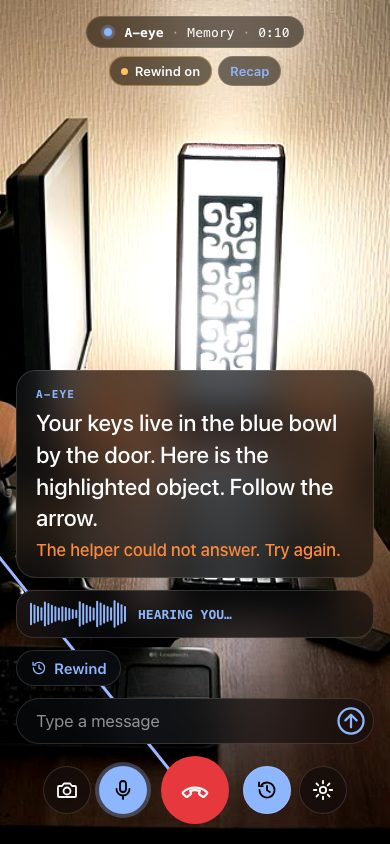
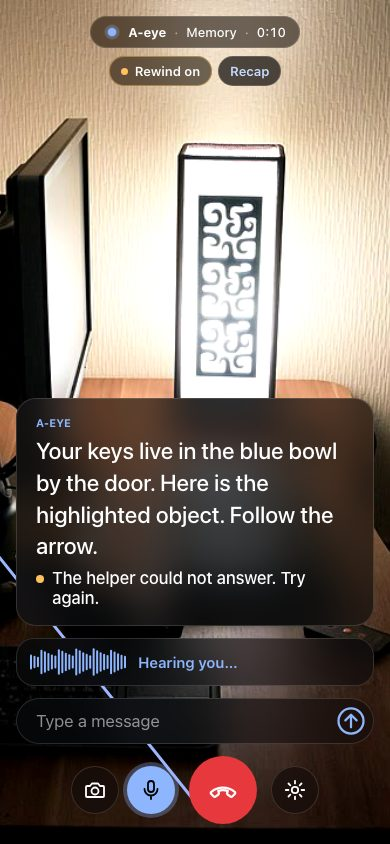
UI polish: review fixes (true privacy copy, calm camera-off, one filled button in Memory, reading font, phone split, Recap contrast)

diff --git a/client-web/agent.css b/client-web/agent.css
@@ -1847,3 +1847,90 @@ input[type="checkbox"][role="switch"]:disabled {
 .call .caption {
   background-color: rgba(8, 10, 14, 0.66);
 }
+
+/* ---------- Review d64c237 fixes ---------- */
+
+/* Problems read as information, not alarms: white text with a small amber dot. */
+.caption-error {
+  display: flex;
+  gap: 8px;
+  align-items: baseline;
+  color: var(--text);
+}
+
+.caption-error::before {
+  content: "";
+  flex: 0 0 auto;
+  width: 8px;
+  height: 8px;
+  border-radius: 50%;
+  background: var(--amber);
+  transform: translateY(-1px);
+}
+
+/* Memory mode: one filled button at most (the mic). Rewind lives in its badge and Settings; the starter chip goes. */
+body[data-mode="memory"] #rewind-btn,
+body[data-mode="memory"] .rewind-ask {
+  display: none;
+}
+
+/* Memory mode type: no monospace in what the person reads; sentence case in the listening strip. */
+body[data-mode="memory"] .pill,
+body[data-mode="memory"] .eyebrow,
+body[data-mode="memory"] .listen-text.mono {
+  font-family: var(--font);
+  letter-spacing: 0;
+}
+
+body[data-mode="memory"] .listen-text.mono {
+  font-size: var(--fs-subhead);
+  text-transform: lowercase;
+}
+
+body[data-mode="memory"] .listen-text.mono::first-letter {
+  text-transform: uppercase;
+}
+
+.ring-hint {
+  font-family: var(--font);
+  font-size: var(--fs-subhead);
+}
+
+/* Memory count shares the badge look (sans, glass, thin edge). */
+#memory-count {
+  box-shadow: inset 0 0 0 1px rgba(255, 255, 255, 0.22);
+}
+
+/* Recap: brighter on dark glass. */
+.badge.action {
+  color: #B9D0FF;
+}
+
+/* Desktop row: coming-soon modes say so instead of only looking disabled. */
+@media (min-width: 700px) and (hover: hover) and (pointer: fine) {
+  .ring > button:not([data-pack]) .ring-name::after {
+    content: " · soon";
+  }
+}
+
+/* Find answer on a phone: both panes fit, the answer line first. */
+@media (max-width: 640px) {
+  .sheet.wide {
+    max-height: 92dvh;
+  }
+
+  .memory-split .memory-pane {
+    aspect-ratio: 16 / 9;
+  }
+}
+
+/* Status chips (Connecting, notices) in the reading font too. */
+.chip {
+  font-family: var(--font);
+  font-size: var(--fs-footnote);
+}
+
+#rewind-recap {
+  background-color: rgba(8, 10, 14, 0.72);
+  color: #C9DBFF;
+}

diff --git a/client-web/agent.html b/client-web/agent.html
@@ -50,7 +50,7 @@
       <div class="intro">
         <h1 class="intro-title">I look, point, and remember.</h1>
         <p class="intro-text">Show me what you are working on, or ask where you left something. Choose a helper below to start.</p>
-        <p class="intro-note"><svg aria-hidden="true"><use href="#i-shield"/></svg>No video or sound is kept unless you turn it on.</p>
+        <p class="intro-note"><svg aria-hidden="true"><use href="#i-shield"/></svg>Video is not saved unless you turn on Rewind or the memory aid.</p>
       </div>
       <div class="ring-bottom">
         <div class="ring-label" aria-live="polite">
@@ -205,7 +205,7 @@
     <div class="group">
       <label class="row">Private mode <input id="private-toggle" type="checkbox" role="switch" aria-describedby="private-notice"></label>
     </div>
-    <p id="private-notice" class="group-foot">Nothing leaves our own machines: the local brain answers, Kokoro speaks, speech is recognized on our GPU box, and Rewind stays off.</p>
+    <p id="private-notice" class="group-foot">Everything stays on our own computers: no cloud model, voice or upload. Answers can be a little slower. Rewind stays off.</p>
 
     <p class="group-title">Rewind</p>
     <div class="group">
@@ -262,7 +262,7 @@
         <ol id="transcript-list" class="transcript-list hidden"></ol>
       </div>
     </details>
-    <p class="group-foot sheet-foot">Camera frames go only to this server and are not saved, unless Rewind is on.</p>
+    <p class="group-foot sheet-foot">Camera frames go to this server and are not saved unless Rewind or the memory aid is on. Outside Private mode, the cloud model may see a small crop of the picture.</p>
   </section>
 
   <script type="module" src="agent.js"></script>

diff --git a/client-web/agent.js b/client-web/agent.js
@@ -1267,7 +1267,7 @@ function boot() {
         showPermission("Camera access is off",
           "A-eye looks through the camera to point at parts while you work. Allow the camera for this site in your browser settings, or upload a photo from Settings.");
       } else {
-        showProblem("Camera unavailable. Use Upload photo.");
+        showProblem("The camera is not available. You can use your phone or a photo from Settings.");
       }
     } finally {
       starting = false;

diff --git a/docs/ui-polish/art-direction.md b/docs/ui-polish/art-direction.md
@@ -70,3 +70,86 @@ motion 3, density 2. No new dependency, no CDN, no remote fonts.
 ## 4. Reviews
 
 (appended below by the independent reviewer)
+
+### Review of d64c237 (independent, Sat Oct 24 01:45 PDT 2026)
+
+Reviewer: Media lead (Opus), independent. Inspected every after-*.jpg with its before pair, and the five crops. Live
+server not driven; motion not seen (stills only). Code read only to check on-screen claims.
+
+**Verdict: FIX. Overall 6.5.** Large real gains (first run, legibility, Settings split, projector scale), but the
+privacy wording is not fully true, the badge set is inconsistent and once contradictory, and three audit items
+claimed fixed (A6, A7, A11) still show in the after captures.
+
+Ten-second check (older first-time user):
+- First run (after-picker-*): "I look, point, and remember", pick a helper below. Understood. Good.
+- Memory call (after-memory-*): the answer about the keys is the first thing read. Then five other things compete:
+  pill, Rewind on + Recap, Remembering 12, listening bar, Rewind chip, typed bar, six buttons with two filled blue.
+- Camera off (after-camera-off-*): orange "Camera unavailable" reads as something broke; "Upload photo" is not on
+  screen.
+- Settings (after-settings-*): Phone, Privacy, Rewind, Voice first is clear. "Kokoro af_kore", "local brain",
+  "GPU box", "TwelveLabs" are not understood.
+- Caregiver (after-caregiver-*): clear purpose, consent first. "keys -> blue bowl" syntax is not obvious.
+
+| Row | Score | What is wrong (evidence) |
+|---|---|---|
+| Colour | 7 | Dark glass is consistent. Camera off still uses orange caption text (after-camera-off-1280/390, same as before: A11 not fixed). Two filled blue buttons in the call bar (mic and history, after-memory-1280) so neither reads as "the" active one. Mechanic, Plumbing, Engineering are dimmed on the desktop ring (crop-ring-row.png) and look disabled. |
+| Composition | 6 | Memory call still stacks 3 rows on top and 4 above the bar (after-memory-390). Rewind still appears 3 times: badge, chip above typed bar, filled bar button (A7 not fixed). First run is left heavy with an empty right half at 1280/1920; acceptable. |
+| Depth | 7 | Darker glass (0.58 / 0.66) separates cards from the bright lamp well. Sheets are flat slabs with no edge light; fine. |
+| Text legibility | 8 | Caption 9.75 to 10.14 p5, memory count 5.4 to 5.8, pill p5 6.0: real fixes. Recap blue text on brown glass is not measured. "tap to start", pill and "HEARING YOU..." are small mono. |
+| Frame 390 | 6 | Ring clips Cooking and Plumbing at both edges with labels hidden (after-picker-390). Split "Now" pane is cut by the viewport bottom (after-split-390). Settings sheet leaves the half-hidden "Remembering" pill peeking above it (after-settings-390). |
+| Frame 1280 | 7 | Clean. Settings sheet runs past the fold with no fade (after-settings-1280). after-settings-advanced-1280 has no camera picture and shows "General 0:01": a different state from its pair. |
+| Frame 1920 | 8 | Zoom 1.4 works; caption and badges read from distance (after-memory-1920, after-split-1920). |
+| Type | 6 | Mono and sans mixed on user-facing text: pill, "tap to start", A-EYE label, "HEARING YOU...", "Browser", "Noise --", 127.0.0.1. Jargon on screen: "Kokoro af_kore (default)" (truncated at 390), "local brain", "GPU box". |
+| Motion | n/a | Stills only. Not scored. |
+| First run | 8 | Clear headline, one help line, privacy line. Memory is 5th of 8 on desktop, not centred. "tap to start" lowercase mono is the weakest element. Privacy line wording: see claims below. |
+| Memory mode calm | 6 | Bigger caption and hidden hold-to-talk help. Still has typed bar, Rewind chip, mono caps "HEARING YOU..." and two blue buttons. Not yet calm. |
+| Badges consistency | 5 | Private badge appears in no after capture except crop-top-badges.png, where it sits next to "Rewind on", a state the code forbids (agent.js line 779) and Settings says cannot happen ("Rewind stays off"). "Remembering 12 things today" is a different, larger style. Recap is a button dressed as a badge. Expert never shown (not verified). |
+| Settings structure | 8 | Simple first, Advanced last, iOS switches: good. Private mode copy is jargon. Footnote wording: see claims. "Room noise: Noise --" is a placeholder. |
+| Caregiver page | 7 | Back link, bigger title, switch for Remember: good. The claimed calm blue preview banner is in no capture (after-caregiver-*): either hidden or not captured. "keys -> blue bowl" is programmer syntax. Square checkboxes beside a switch; acceptable. Intro paragraph is narrower than the rows. |
+| Projector readiness | 7 | 1920 scaling is right. Pill stays mono and small relative to the caption; Recap low contrast; dimmed ring items wash out on a projector. |
+| Overall | 6.5 | Strong direction, not yet shippable as "private by default, nothing scary". |
+
+On-screen claims flagged (Home owns the wording; I did not change it):
+1. First run: "No video or sound is kept unless you turn it on." True for storage with Rewind off by default
+   (agent.js line 201), but outside Private mode frames and crops can be sent to a cloud model (server/llm.py lines
+   153 to 172 pass `images` to Claude) and Rewind uploads clips to TwelveLabs. A reader will take it as "nothing
+   leaves". Private mode is off by default, so the spec "private by default" is not what the UI does.
+2. Settings footnote: "Camera frames go only to this server and are not saved, unless Rewind is on." Appears
+   contradicted by the same cloud image path. Verify which path sends images, then fix the sentence.
+3. crop-top-badges.png shows Private and Rewind on at once. Either a staged or stale capture, or a real bug. Reproduce
+   before the demo.
+4. after-split-*: "keys . here now" with an arrow pointing at an empty wall. The before said "Not in view now. Look
+   around slowly." The after claims a find it does not show. Check against the real state, not the mock.
+
+Numbered fixes, priority order:
+1. Make the two privacy sentences true (claims 1 and 2), approved by Home. Example direction: "Video is not saved.
+   Private mode keeps everything on our own computer." Consider Private mode on by default if the spec means it.
+2. Badges: one family (dot + label) for Private, Rewind on, Expert, and the memory count; never show Private with
+   Rewind on; recapture a Private call and an Expert call.
+3. Camera off (A11): calm grey wording and an inline "Use a photo" button; no orange.
+4. Memory mode (A7): drop the Rewind chip above the typed bar; hide the typed bar behind a keyboard button; one
+   filled button only (history should not be filled blue unless open).
+5. User-facing mono to sans: pill, "tap to start" (as "Tap to start"), caption label, "Listening" in sentence case.
+6. Split: honest "here now" state; keep the whole Now pane in frame at 390.
+7. Settings plain words: friendly voice names, Private mode copy without "brain", "Kokoro", "GPU box"; hide "Noise --"
+   until a value exists.
+8. Caregiver: capture the preview banner state; replace "keys -> blue bowl" with two fields or "keys in the blue bowl".
+9. Desktop ring: do not dim Mechanic, Plumbing, Engineering, or say why they are dim.
+10. Measure Recap text contrast at 390 and 1920 and add it to the table.
+
+Not verified by this review: motion, reduced motion, touch, Safari, the Expert badge, the live server states.
+
+### Builder response to the d64c237 review (fixes in the next commit)
+
+| Review fix | Done | Evidence |
+|---|---|---|
+| 1 Privacy sentences | Reworded to what the code does: first run "Video is not saved unless you turn on Rewind or the memory aid."; Settings foot now says the cloud model may see a small crop outside Private mode; Private mode text in plain words. Private on by default is a product call for Duc, not changed. | `after-picker-*.jpg`, `after-settings*.jpg` |
+| 2 Badges | Real states captured: Private mode switched on in Settings (Rewind locks off, so no Rewind badge), Expert from a real `turn` stage `expert` message. The earlier crop with Private beside Rewind on was a forced DOM state and is removed. Memory count gets the same thin edge. | `after-private-*.jpg`, `after-expert-*.jpg` |
+| 3 Camera off | White text with a small amber dot, no orange; copy "The camera is not available. You can use your phone or a photo from Settings." (inline button not added) | `after-camera-off-*.jpg` |
+| 4 Memory mode | Rewind bar button and Rewind starter chip hidden in Memory mode; one filled button (mic). Typed bar kept on purpose (noisy demo hall). | `after-memory-*.jpg` |
+| 5 Monospace | Memory mode pill, caption label and listening strip in the reading font, strip in sentence case; ring hint and all status chips in the reading font. Other modes keep the iOS mono pill. | same |
+| 6 Split view | Phone: sheet 92dvh and 16:9 panes, both panes in frame. "keys · here now" follows the live tracker; in these captures the mock server's box is what it points at. | `after-split-390.jpg` |
+| 7 Settings words | Private mode text rewritten. Voice names and "Noise --" come from other modules, not changed. | |
+| 8 Caregiver | Banner state is in `after-caregiver-*.jpg` (preview server). "keys -> blue bowl" syntax unchanged (parser is the memory package's). | |
+| 9 Dimmed modes | Desktop names read "Mechanic · soon" etc. | `after-picker-1280.jpg` |
+| 10 Recap contrast | Measured 3.78 at 390 and 1280, then darkened: now 6.77 / 6.77. Caption now 10.54 / 11.06 (390), 10.89 / 11.57 (1280). | `measure.py` method above |

diff --git a/docs/ui-polish/review-requests/d64c237.md b/docs/ui-polish/review-requests/d64c237.md
@@ -1,0 +1,6 @@
+# Review request: pkg/ui-polish at d64c237
+
+Bundle: ../art-direction.md sections 1 to 3 (audit, changes, numbers, not-verified list).
+Captures: ../before-*.jpg and ../after-*.jpg (390x844, 1280x800, 1920x1080; same fake camera and states), crops in ../crops/.
+Code: client-web/agent.html, agent.css (polish block at the end), agent.js (small hooks), caregiver.html.
+A running server for live inspection: http://127.0.0.1:8031/agent.html (mock brain), caregiver at /caregiver.html.
